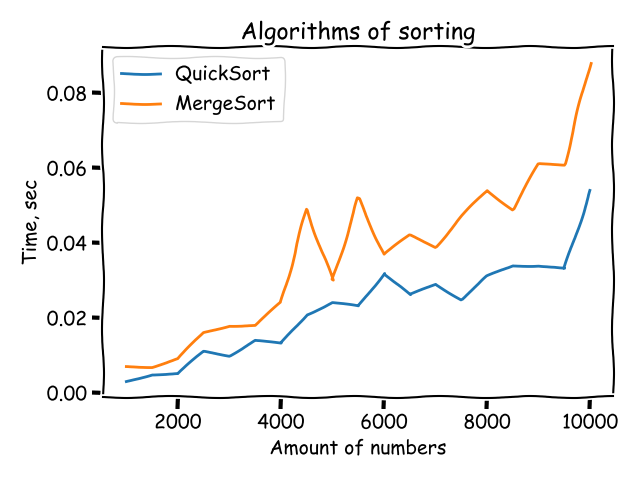
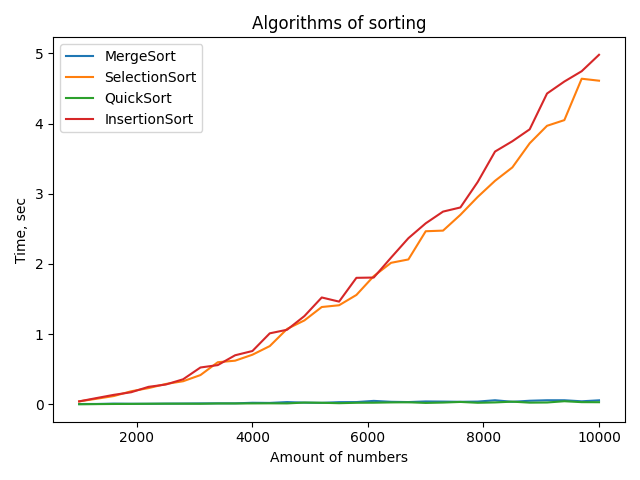
add comment to course_project

diff --git a/Course_project/Oleg_M/main.py b/Course_project/Oleg_M/main.py
@@ -7,11 +7,12 @@ import json
 
 amount_numbers_min = 1_000
 amount_numbers_max = 10_000
-amount_step = 500
-max_vol = 100_000
-__LIST_OF_SORT = {s.MergeSort, s.QuickSort}
-#__LIST_OF_SORT = {s.SelectionSort, s.InsertionSort, s.MergeSort, s.QuickSort}
-#__LIST_OF_SORT = {s.SelectionSort, s.InsertionSort, s.MergeSort, s.QuickSort, s.RadixSort, s.BubbleSort, s.BubbleSortWithBrake}
+amount_step = 300
+max_vol = 5_000
+# __LIST_OF_SORT = {s.MergeSort, s.QuickSort}
+__LIST_OF_SORT = {s.SelectionSort, s.InsertionSort, s.MergeSort, s.QuickSort}
+#__LIST_OF_SORT = {s.SelectionSort, s.InsertionSort, s.MergeSort, s.QuickSort, s.RadixSort, s.BubbleSort,
+#                  s.BubbleSortWithBrake}
 
 __DICT_OF_RESULT = {}
 
@@ -21,16 +22,17 @@ for iteration in range(amount_numbers_min, amount_numbers_max + 1, amount_step):
     _data = [r.randint(1, max_vol) for _ in range(iteration)]
 
     for type_of_alg in __LIST_OF_SORT:
+        # create object of sort
         alg = type_of_alg(_data.copy())
 
+        # sorting and calculate time
         # print(alg.data)
         time_begin = t.time()
-
         alg.start_sorting(alg.data)
-
         time_sort = t.time() - time_begin
         # print(alg.data)
 
+        #init result  dictionary
         if not __DICT_OF_RESULT.get(type_of_alg.__name__, False):
             __DICT_OF_RESULT[type_of_alg.__name__] = [(iteration, time_sort)]
         else:
@@ -40,16 +42,16 @@ for iteration in range(amount_numbers_min, amount_numbers_max + 1, amount_step):
 
 p.pprint(__DICT_OF_RESULT)
 
-#Save in JSON file
+# Save in JSON file
 with open("create_data_file.json", "w") as write_file:
     json.dump(__DICT_OF_RESULT, write_file)
 
-#Load from JSON file
+# Load from JSON file
 with open("create_data_file.json", "r") as read_file:
     __DICT_OF_RESULT = json.load(read_file)
 
-#Show plot
-plt.xkcd()
+# Show plot
+
 for type_of_alg in __LIST_OF_SORT:
     ages_y = [type_alg[1] for type_alg in __DICT_OF_RESULT.get(type_of_alg.__name__)]
     ages_x = [type_alg[0] for type_alg in __DICT_OF_RESULT.get(type_of_alg.__name__)]
